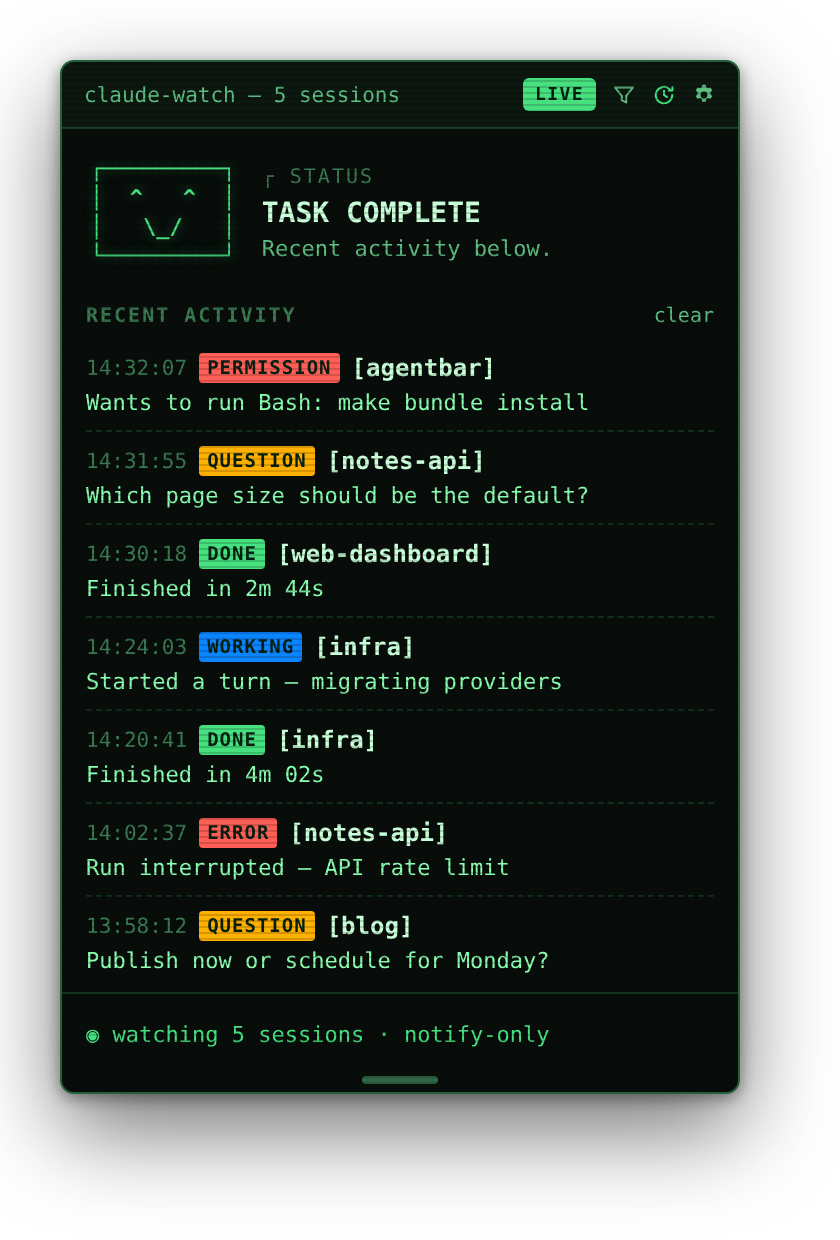
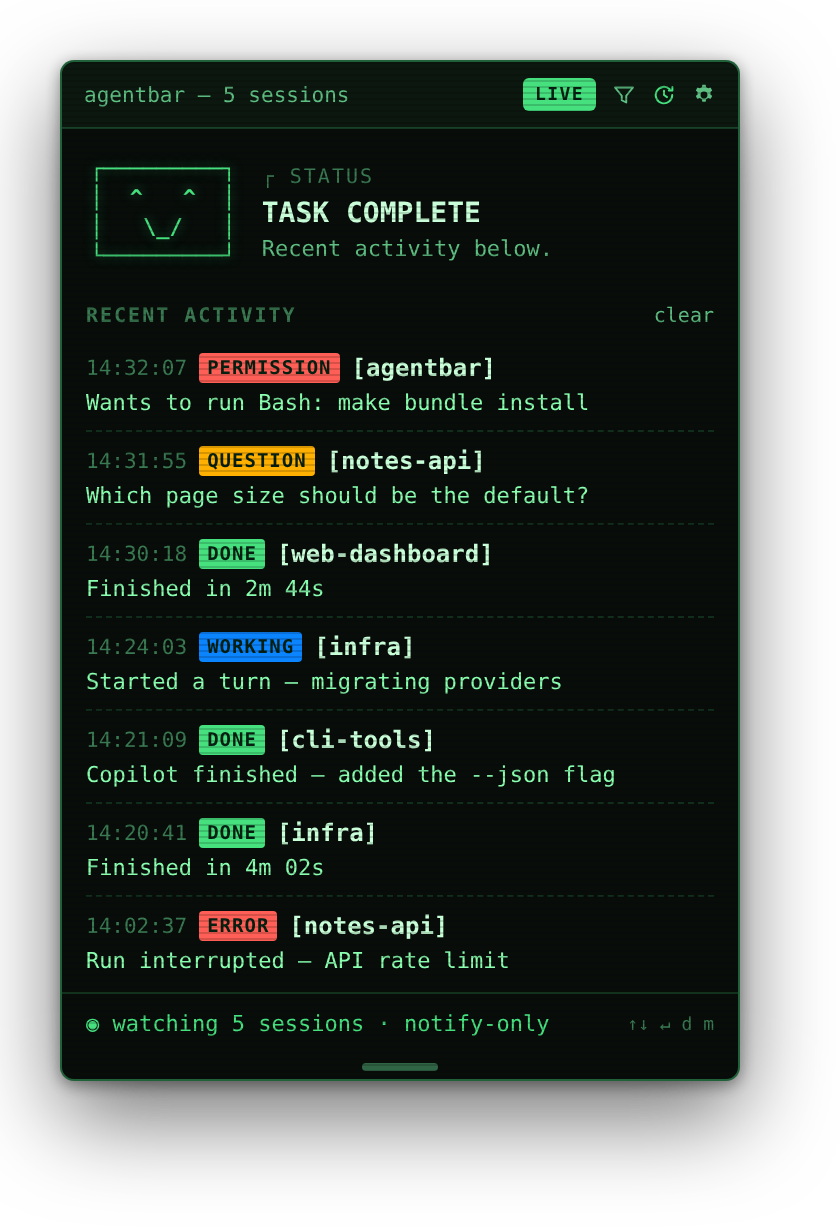
docs: refresh README screenshots with newest features
Regenerate the popover UI previews to match the app's current design in
app/Sources/AgentBar/Views/. Since the screenshots were first added, the app
gained several roster features the previews didn't show:

- CLAUDE / COPILOT source pills on each row (GitHub Copilot CLI support)
- the model · permission-mode · context-usage meta line under each header,
  including the amber tint as a window fills
- the keyboard-navigation hint in the prompt bar
- the claude-watch -> agentbar rename in the title bar

The dashboard now includes a Copilot session (no meta line, as in the app) and
the activity log carries a Copilot event. Updates the alt text, captions, and
the regeneration notes (window height + Pillow bounding-box crop) to match.

Claude-Session: https://claude.ai/code/session_01UE9fyCB44EKH2S1D5rbmCY

diff --git a/docs/images/generate.js b/docs/images/generate.js
@@ -10,6 +10,9 @@ const C = {
   moodPermission: '#ff6b5f', moodQuestion: '#ffce6b',
   kbdDeny: '#3a4a40', kbdFocus: '#2a5a3a',
   shDeny: '#1a2a20', shFocus: '#143020',
+  // Source pill accents (design `AgentSource.tagColor`): phosphor green for Claude,
+  // working-blue for Copilot, so a mixed roster reads at a glance.
+  srcClaude: '#46e07f', srcCopilot: '#0a84ff',
 };
 
 const CSS = `
@@ -78,7 +81,14 @@ body { font-family: "DejaVu Sans Mono", ui-monospace, monospace; -webkit-font-sm
 .proj { font-size: 12px; font-weight: 600; color: ${C.head}; white-space: nowrap; }
 .msgs { font-size: 10px; color: ${C.dim}; }
 .tag { font-size: 9.5px; font-weight: 700; letter-spacing: 0.5px; color: ${C.ink}; padding: 2px 4px; border-radius: 2px; }
+.src { font-size: 8.5px; font-weight: 700; letter-spacing: 0.5px; padding: 1.5px 4px; border-radius: 2px; border: 1px solid; }
 .title2 { font-size: 11px; color: ${C.text}; }
+
+/* Session meta: model · permission-mode pill · context-window usage */
+.meta { display: flex; align-items: center; gap: 7px; }
+.meta .model { font-size: 9.5px; color: ${C.sub}; white-space: nowrap; }
+.meta .mode { font-size: 8.5px; font-weight: 700; letter-spacing: 0.3px; color: ${C.ink}; padding: 1px 4px; border-radius: 2px; }
+.meta .ctx { font-size: 9.5px; white-space: nowrap; }
 .ask { font-size: 11px; font-weight: 500; }
 .activity { font-size: 10.5px; white-space: nowrap; overflow: hidden; text-overflow: ellipsis; }
 .elapsed { font-size: 10px; }
@@ -113,8 +123,9 @@ body { font-family: "DejaVu Sans Mono", ui-monospace, monospace; -webkit-font-sm
 .hline .sum { font-size: 11px; color: ${C.text}; }
 
 /* prompt bar */
-.promptbar { padding: 9px 12px; border-top: 1px solid rgba(70,224,127,0.22); }
+.promptbar { display: flex; align-items: center; gap: 6px; padding: 9px 12px; border-top: 1px solid rgba(70,224,127,0.22); }
 .promptbar .t { font-size: 11px; font-weight: 500; color: ${C.green}; }
+.promptbar .keys { font-size: 9px; color: ${C.dim}; white-space: nowrap; }
 
 /* resize handle */
 .handle { display: flex; justify-content: center; padding: 4px 0; }
@@ -146,11 +157,29 @@ function statusColor(s) {
   return { PERMISSION: C.stPermission, ERROR: C.stPermission, QUESTION: C.stQuestion, WORKING: C.stWorking, DONE: C.stDone, IDLE: C.dim }[s];
 }
 function tag(s) { return `<span class="tag" style="background:${statusColor(s)}">${s}</span>`; }
+// Source pill (CLAUDE / COPILOT) — outlined so it sits quietly beside the filled status tag.
+function sourceTag(src) {
+  const col = src === 'COPILOT' ? C.srcCopilot : C.srcClaude;
+  return `<span class="src" style="color:${col}; border-color:${col}80">${src}</span>`;
+}
 function keycap(key, lab, style) { return `<span class="kc"><span class="key ${style}">${key}</span><span class="lab">${lab}</span></span>`; }
+
+// The model · mode · context-usage meta line under a row's header. Mirrors QueueView.metaLine:
+// only the pieces we know are shown, and a Copilot row (no model/mode/ctx) renders nothing.
+const modeColor = { 'plan': C.stWorking, 'accept edits': C.stDone, 'bypass': C.stPermission, 'default': C.dim };
+function ctxColor(pct) { return pct >= 90 ? C.stPermission : pct >= 75 ? C.amberText : C.dim; }
+function metaLine(o) {
+  if (!o.model && !o.mode && o.ctx == null) return '';
+  let parts = '';
+  if (o.model) parts += `<span class="model">${o.model}</span>`;
+  if (o.mode) parts += `<span class="mode" style="background:${modeColor[o.mode] || C.dim}">${o.mode}</span>`;
+  if (o.ctx != null) parts += `<span class="ctx" style="color:${ctxColor(o.ctxPct)}">ctx ${o.ctx} · ${o.ctxPct}%</span>`;
+  return `<div class="meta">${parts}</div>`;
+}
 
 function titlebar(count, { filter = false, history = false } = {}) {
   return `<div class="titlebar">
-    <span class="name">claude-watch — ${count} ${count === 1 ? 'session' : 'sessions'}</span>
+    <span class="name">agentbar — ${count} ${count === 1 ? 'session' : 'sessions'}</span>
     <span class="spacer"></span>
     <span class="live">LIVE</span>
     ${funnel(filter)}
@@ -182,7 +211,9 @@ function groupHeader(sym, title, count, col) {
 
 // A session line. opts: time, proj, status, msgs, title, ask, askColor, elapsed, elapsedColor, cmd, activity, activityColor, acts:[[key,lab,style]], trail:[[t,l]]
 function line(o) {
-  let inner = `<div class="hdr"><span class="time">${o.time}</span><span class="proj">[${o.proj}]</span>${tag(o.status)}<span class="spacer"></span>${o.msgs ? `<span class="msgs">${o.msgs} msgs</span>` : ''}</div>`;
+  const src = sourceTag(o.source || 'CLAUDE');
+  let inner = `<div class="hdr"><span class="time">${o.time}</span><span class="proj">[${o.proj}]</span>${tag(o.status)}${src}<span class="spacer"></span>${o.msgs ? `<span class="msgs">${o.msgs} msgs</span>` : ''}</div>`;
+  inner += metaLine(o);
   inner += `<div class="title2">└─ ${o.title}</div>`;
   if (o.activity) inner += `<div class="activity" style="color:${o.activityColor}">⋯ ${o.activity}</div>`;
   if (o.workingElapsed) inner += `<div class="elapsed" style="color:${C.stWorking}bf">working ${o.workingElapsed}</div>`;
@@ -193,8 +224,8 @@ function line(o) {
   if (o.trail) inner += `<div class="trail">${o.trail.map(t => `<div class="te"><span class="tt">${t[0]}</span><span class="tl">${t[1]}</span></div>`).join('')}</div>`;
   return `<div class="line">${inner}</div>`;
 }
-function promptbar(n) {
-  return `<div class="promptbar"><span class="t">◉ watching ${n} ${n === 1 ? 'session' : 'sessions'} · notify-only</span></div>`;
+function promptbar(n, { keys = true } = {}) {
+  return `<div class="promptbar"><span class="t">◉ watching ${n} ${n === 1 ? 'session' : 'sessions'} · notify-only</span><span class="spacer"></span>${keys ? '<span class="keys">↑↓ ↵ d m</span>' : ''}</div>`;
 }
 function handle() { return `<div class="handle"><span class="bar"></span></div>`; }
 
@@ -211,6 +242,7 @@ const dashboard = page(
     groupHeader('●', 'NEEDS YOU', 2, C.stPermission) +
     line({
       time: '14:32:07', proj: 'agentbar', status: 'PERMISSION', msgs: 148,
+      model: 'opus-4-8', mode: 'default', ctx: '214k', ctxPct: 21,
       title: 'wire up the release workflow and cask',
       ask: 'Wants to run Bash', askColor: C.stPermission,
       elapsed: '18s', elapsedColor: C.stPermission,
@@ -220,6 +252,7 @@ const dashboard = page(
     `<div class="dashed"></div>` +
     line({
       time: '14:31:55', proj: 'notes-api', status: 'QUESTION', msgs: 62,
+      model: 'sonnet-4-5', mode: 'plan', ctx: '88k', ctxPct: 44,
       title: 'add pagination to the search endpoint',
       ask: 'Which page size should be the default?', askColor: C.stQuestion,
       elapsed: '31s', elapsedColor: C.stQuestion,
@@ -228,6 +261,7 @@ const dashboard = page(
     groupHeader('⚙', 'WORKING', 1, C.stWorking) +
     line({
       time: '14:32:09', proj: 'web-dashboard', status: 'WORKING', msgs: 90,
+      model: 'sonnet-4-5', mode: 'accept edits', ctx: '152k', ctxPct: 76,
       title: 'migrate the charts to the new theme tokens',
       activity: 'Editing ThemeTokens.ts', activityColor: C.stWorking,
       workingElapsed: '2m 13s',
@@ -236,14 +270,15 @@ const dashboard = page(
     groupHeader('○', 'IDLE', 2, C.dim) +
     line({
       time: '14:20:41', proj: 'infra', status: 'DONE', msgs: 210,
+      model: 'haiku-4-5', mode: 'default', ctx: '34k', ctxPct: 17,
       title: 'bump the terraform providers',
       activity: 'finished in 4m 02s', activityColor: C.dim,
       acts: [['↵', 'focus', 'focus'], ['›', 'trail', 'focus']],
     }) +
     `<div class="dashed"></div>` +
     line({
-      time: 'Jul 10', proj: 'blog', status: 'IDLE', msgs: 34,
-      title: 'draft the release announcement post',
+      time: 'Jul 10', proj: 'cli-tools', status: 'IDLE', msgs: 34, source: 'COPILOT',
+      title: 'add a --json flag to the status command',
       acts: [['↵', 'focus', 'focus']],
     }) +
   `</div>` +
@@ -260,6 +295,7 @@ const permission = page(
     groupHeader('●', 'NEEDS YOU', 1, C.stPermission) +
     line({
       time: '09:14:52', proj: 'agentbar', status: 'PERMISSION', msgs: 73,
+      model: 'opus-4-8', mode: 'accept edits', ctx: '156k', ctxPct: 78,
       title: 'set up the homebrew cask and release build',
       ask: 'Wants to run Bash', askColor: C.stPermission,
       elapsed: '12s', elapsedColor: C.stPermission,
@@ -274,6 +310,7 @@ const permission = page(
     groupHeader('○', 'IDLE', 1, C.dim) +
     line({
       time: '08:52:10', proj: 'docs-site', status: 'IDLE', msgs: 19,
+      model: 'sonnet-4-5', mode: 'default', ctx: '41k', ctxPct: 21,
       title: 'update the install instructions',
       acts: [['↵', 'focus', 'focus']],
     }) +
@@ -294,9 +331,9 @@ const activityLog = page(
         ['14:31:55', 'QUESTION', 'notes-api', 'Which page size should be the default?'],
         ['14:30:18', 'DONE', 'web-dashboard', 'Finished in 2m 44s'],
         ['14:24:03', 'WORKING', 'infra', 'Started a turn — migrating providers'],
+        ['14:21:09', 'DONE', 'cli-tools', 'Copilot finished — added the --json flag'],
         ['14:20:41', 'DONE', 'infra', 'Finished in 4m 02s'],
         ['14:02:37', 'ERROR', 'notes-api', 'Run interrupted — API rate limit'],
-        ['13:58:12', 'QUESTION', 'blog', 'Publish now or schedule for Monday?'],
       ];
       return rows.map((r, i) =>
         (i > 0 ? '<div class="dashed"></div>' : '') +

diff --git a/docs/images/README.md b/docs/images/README.md
@@ -14,9 +14,21 @@ node docs/images/generate.js docs/images            # writes dashboard/permissio
 # then render each with headless Chromium at 2x, e.g.:
 chromium --headless=new --hide-scrollbars \
   --force-device-scale-factor=2 --default-background-color=00000000 \
-  --window-size=420,1000 --screenshot=docs/images/dashboard.png \
+  --window-size=420,1100 --screenshot=docs/images/dashboard.png \
   file://$PWD/docs/images/dashboard.html
 ```
 
-Crop the transparent margins to the content bounding box after rendering. Swap these for
-real screenshots of the built app whenever a signed build is available.
+Render onto a transparent background (`--default-background-color=00000000`) with a window
+tall enough to fit the content, then crop the transparent margins to the popover's bounding
+box — e.g. with Pillow:
+
+```python
+from PIL import Image
+im = Image.open("docs/images/dashboard.png").convert("RGBA")
+im.crop(im.getchannel("A").getbbox()).save("docs/images/dashboard.png")
+```
+
+The previews are kept in sync with the live UI in `app/Sources/AgentBar/Views/` — the source
+pills (CLAUDE / COPILOT), the model · mode · context meta line, and the keyboard-nav hint all
+mirror `QueueView`/`FeedComponents`. Swap these for real screenshots of the built app whenever
+a signed build is available.

diff --git a/README.md b/README.md
@@ -8,10 +8,10 @@ back to the front so you can answer there. It is a **notification tool, not an i
 never blocks your session and never sits between you and the agent.
 
 <p align="center">
-  <img src="docs/images/dashboard.png" alt="AgentBar popover showing a multi-agent dashboard: a permission and a question waiting, one session working, two idle" width="380">
+  <img src="docs/images/dashboard.png" alt="AgentBar popover showing a multi-agent dashboard: a permission and a question waiting, one session working, two idle — each Claude row tagged with its model, permission mode, and context usage, plus a Copilot session" width="380">
 </p>
 
-<p align="center"><sub><i>The AgentBar popover — a live, read-only overview of every Claude Code session, with what needs you floated to the top. (UI preview rendered from the app's design, not a photo of a running app.)</i></sub></p>
+<p align="center"><sub><i>The AgentBar popover — a live, read-only overview of every Claude Code and Copilot session, each row showing its model, mode, and context usage, with what needs you floated to the top. (UI preview rendered from the app's design, not a photo of a running app.)</i></sub></p>
 
 ## How it works
 
@@ -100,7 +100,7 @@ surface exactly like Claude's.
 Every event is a notification — AgentBar never intercepts or answers a prompt for you.
 
 <p align="center">
-  <img src="docs/images/permission.png" alt="A session row waiting on a permission request, showing the tool, the shell command in an amber box, a live waiting timer, an expanded activity trail, and focus / dismiss / mute keycaps" width="360">
+  <img src="docs/images/permission.png" alt="A session row waiting on a permission request, showing the tool, the shell command in an amber box, the session's model / mode / context meta line, a live waiting timer, an expanded activity trail, and focus / dismiss / mute keycaps" width="360">
 </p>
 
 <p align="center"><sub><i>A permission request surfaced for context — the tool, its command, and how long it's been waiting. The keycaps <b>focus</b> your terminal or <b>dismiss</b> the row; you still allow or deny in the terminal.</i></sub></p>